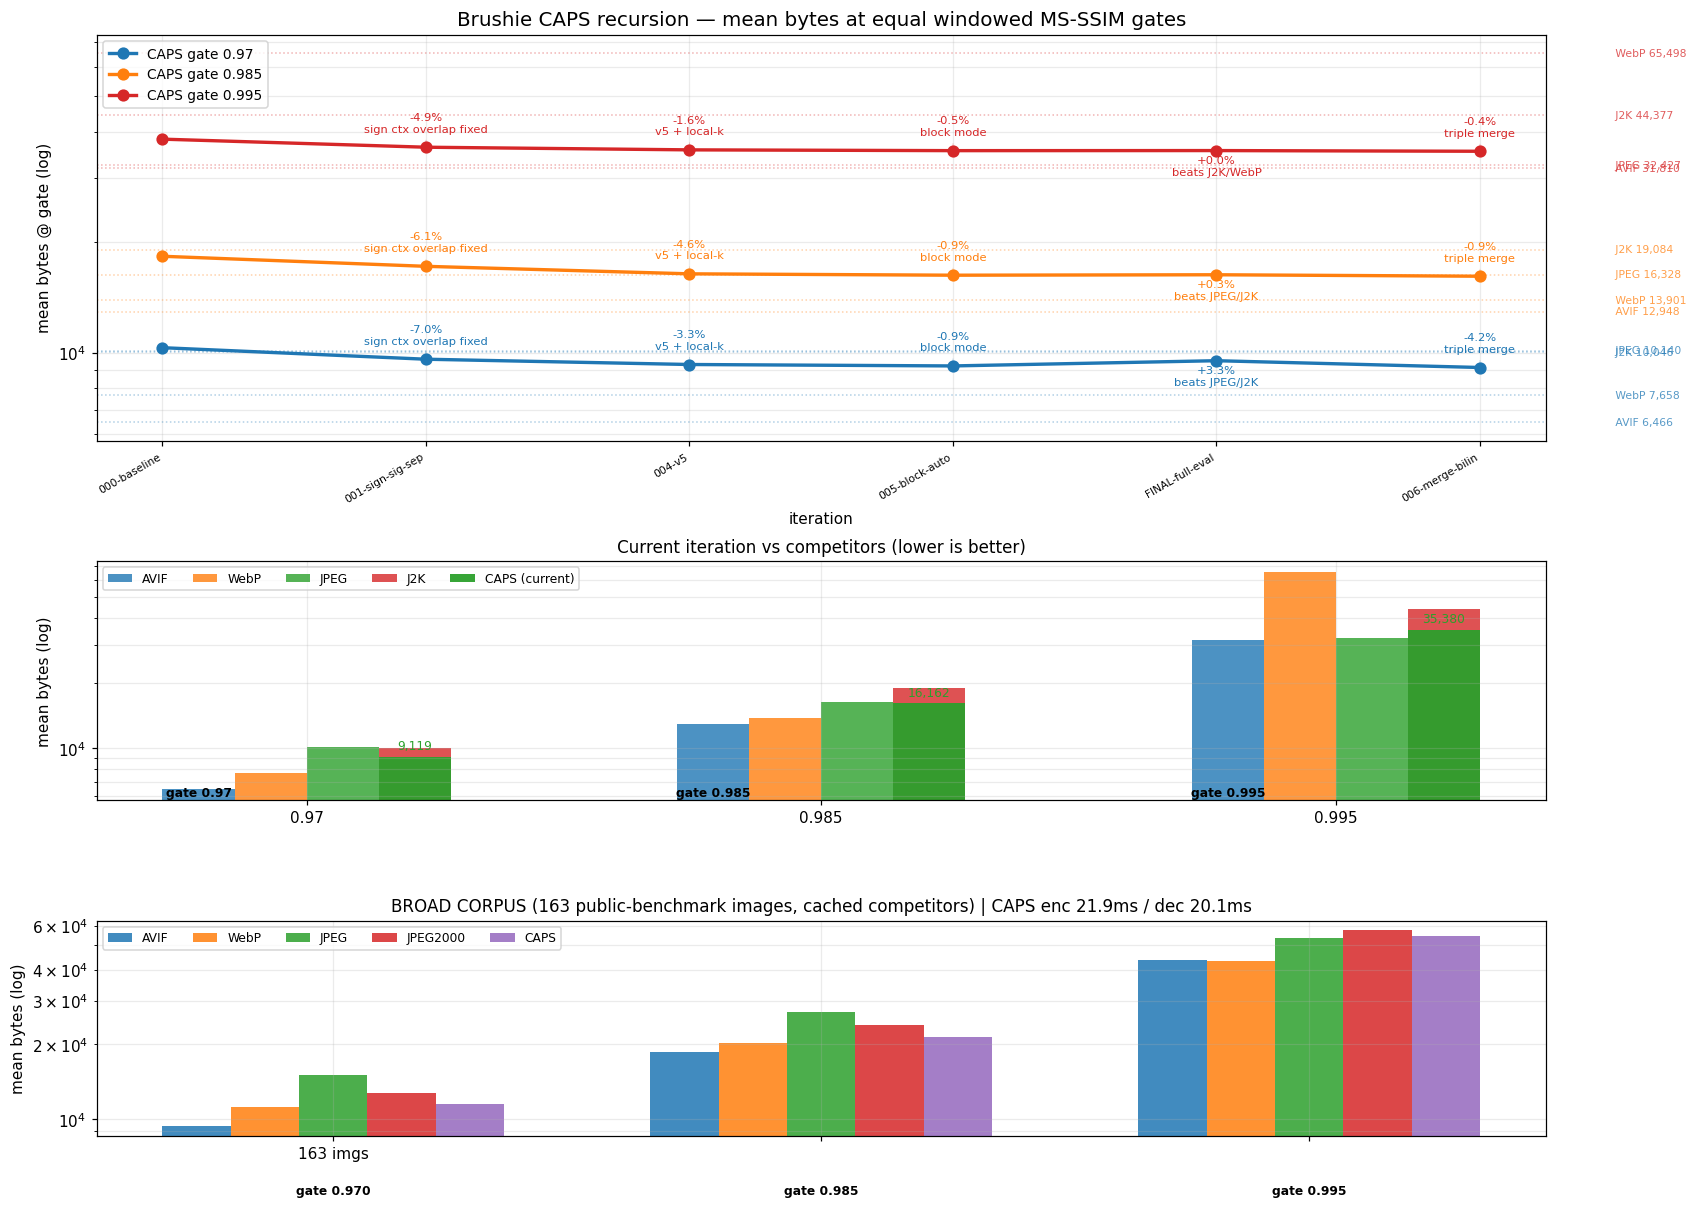
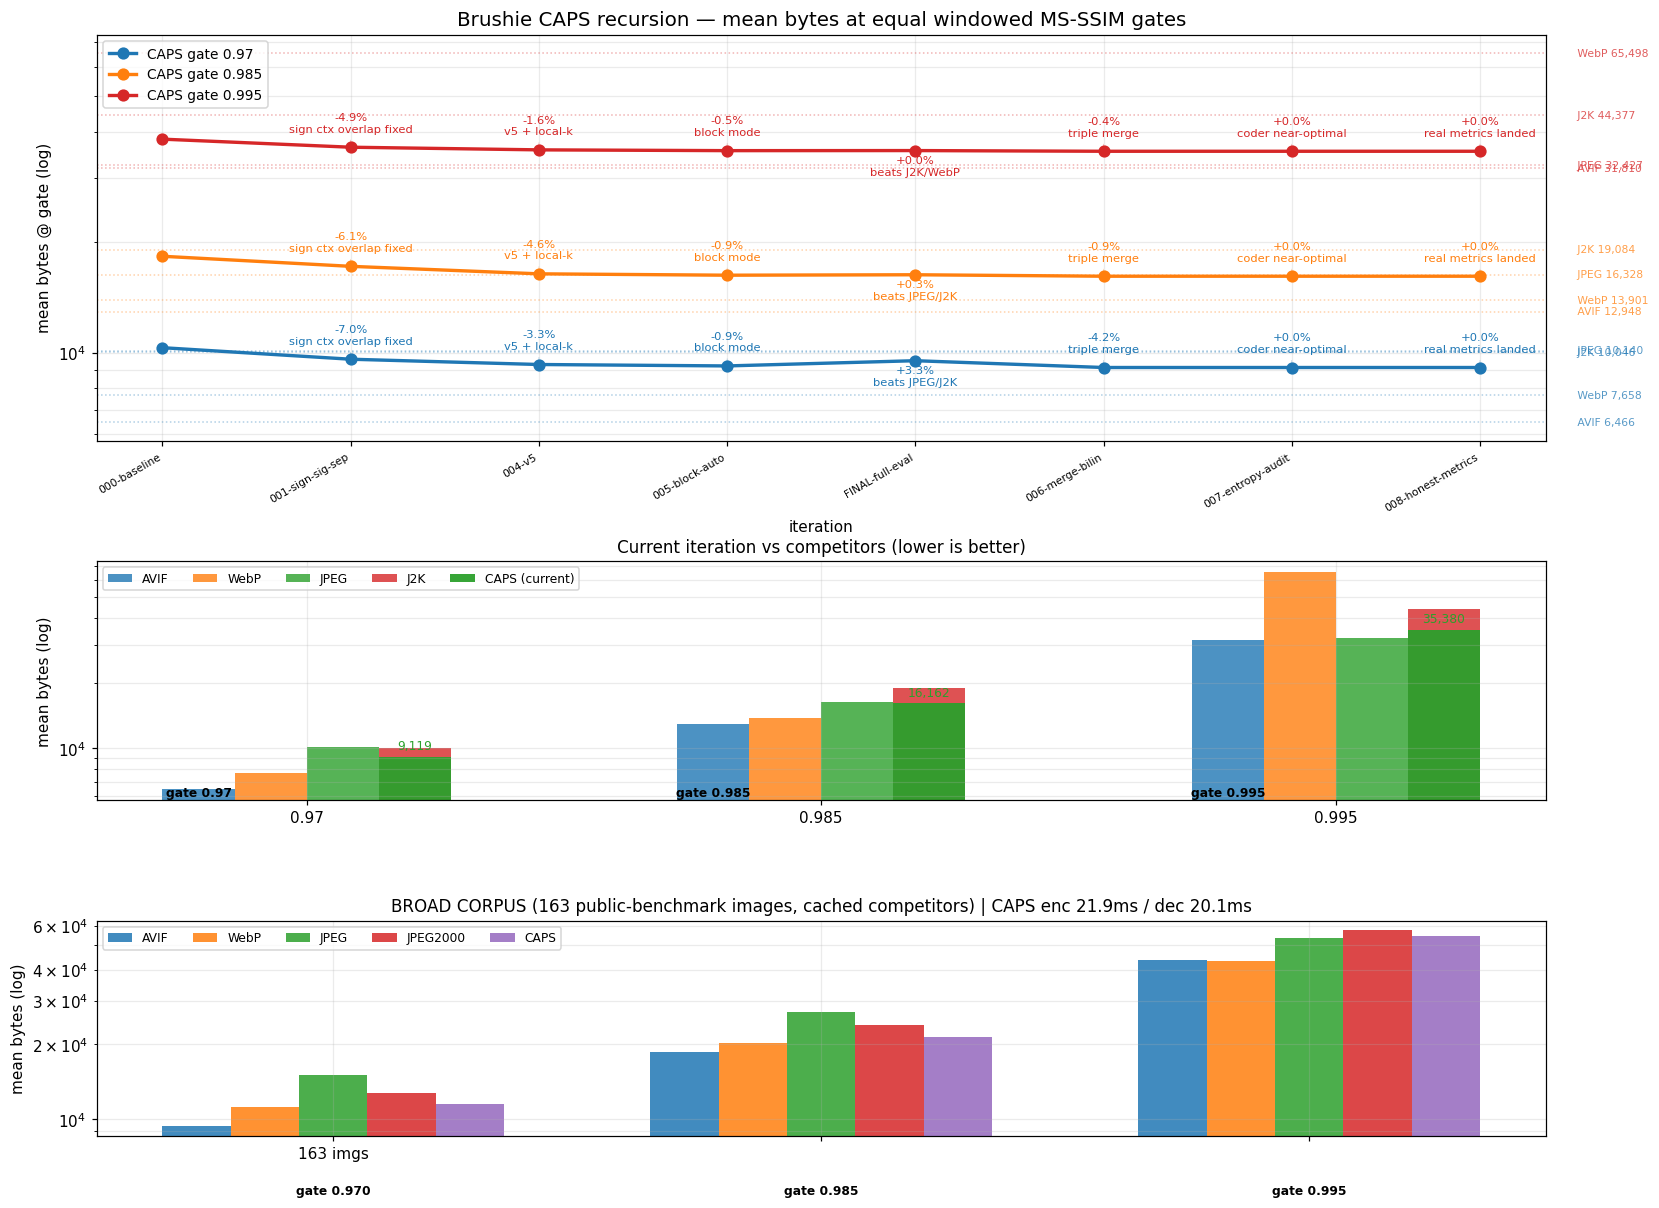
dash: honest-metric panel (SSIMULACRA2+Butteraugli landscape), campaign milestone entries, MPLBACKEND fix, /honest.png route

diff --git a/scripts/dashboard.py b/scripts/dashboard.py
@@ -10,6 +10,7 @@ import json, os
 from http.server import BaseHTTPRequestHandler, ThreadingHTTPServer
 from pathlib import Path
 
+os.environ.pop("MPLBACKEND", None)  # kernel leaks module://matplotlib_inline; Agg required
 import matplotlib
 matplotlib.use("Agg")
 import matplotlib.pyplot as plt
@@ -134,6 +135,48 @@ def render():
             title += f" | CAPS enc {sp.get('encode_ms', '?')}ms / dec {sp.get('decode_ms', '?')}ms"
         ax3.set_title(title, fontsize=11)
 
+    # Honest-metric panel: CAPS vs best-per-gate on SSIMULACRA2/Butteraugli.
+    honest_path = ROOT / "dash" / "honest.json"
+    if broad is not None and honest_path.exists():
+        honest = json.loads(honest_path.read_text())
+        metrics = honest.get("metrics", {})
+        if metrics:
+            fig2 = plt.figure(figsize=(17, 6.5))
+            s2 = [k for k in metrics if k.startswith("ssimulacra2")]
+            ba = [k for k in metrics if k.startswith("butteraugli")]
+            for pi, group in enumerate([s2, ba]):
+                axh = fig2.add_subplot(1, 2, pi + 1)
+                gates = group
+                xs = np.arange(len(gates))
+                codecs = ["CAPS", "JPEG XL", "AVIF", "WebP", "JPEG"]
+                ccolors = {"CAPS": "#2ca02c", "JPEG XL": "#9467bd", "AVIF": "#1f77b4",
+                           "WebP": "#ff7f0e", "JPEG": "#7f7f7f"}
+                width = 0.15
+                for j, codec in enumerate(codecs):
+                    vals = []
+                    for g in gates:
+                        e = metrics[g].get(codec)
+                        vals.append(e["mean_bytes"] if e else 0)
+                    axh.bar(xs + (j - 2) * width, vals, width, label=codec,
+                            color=ccolors[codec], alpha=0.85)
+                axh.set_yscale("log")
+                axh.set_xticks(xs)
+                axh.set_xticklabels([g.split()[-1] for g in gates])
+                axh.set_xlabel("gate (higher = better)" if pi == 0 else "gate (lower = better)")
+                axh.set_ylabel("mean bytes (log)")
+                axh.set_title(("SSIMULACRA2 gates (163 imgs, real metric)" if pi == 0
+                               else "Butteraugli 3-norm gates (163 imgs, real metric)"), fontsize=11)
+                axh.legend(loc="upper left", fontsize=8, ncol=5)
+                axh.grid(True, which="both", alpha=0.25)
+                for j, g in enumerate(gates):
+                    caps_e = metrics[g].get("CAPS")
+                    if caps_e:
+                        axh.text(j - 2 * width, caps_e["mean_bytes"] * 1.15,
+                                 f"{caps_e['mean_bytes']:,}", ha="center",
+                                 fontsize=7.5, color="#2ca02c", fontweight="bold")
+            fig2.savefig(ROOT / "dash" / "honest.png", dpi=110, bbox_inches="tight")
+            plt.close(fig2)
+
     out = ROOT / "dash" / "progress.png"
     fig.savefig(out, dpi=110, bbox_inches="tight")
     plt.close(fig)
@@ -153,6 +196,8 @@ class Handler(BaseHTTPRequestHandler):
 <body style="font-family:system-ui;background:#111;color:#eee;margin:24px">
 <h2>Brushie CAPS recursion — <a href="/progress.png">graph</a></h2>
 <img src="/progress.png" style="max-width:100%;border:1px solid #333;border-radius:8px">
+<h2>Real perceptual metrics (SSIMULACRA2 + Butteraugli, 163 images)</h2>
+<img src="/honest.png" style="max-width:100%;border:1px solid #333;border-radius:8px">
 <table border="1" cellspacing="0" cellpadding="5" style="margin-top:18px;border-collapse:collapse">
 <tr><th>tag</th><th>time</th><th>.970</th><th>.985</th><th>.995</th><th>note</th></tr>{rows}</table>
 </body></html>"""
@@ -166,6 +211,17 @@ class Handler(BaseHTTPRequestHandler):
             if out is None:
                 self.send_response(404); self.end_headers(); return
             data = out.read_bytes()
+            self.send_response(200)
+            self.send_header("Content-Type", "image/png")
+            self.send_header("Content-Length", str(len(data)))
+            self.send_header("Cache-Control", "no-store")
+            self.end_headers()
+            self.wfile.write(data)
+        elif self.path == "/honest.png":
+            p = ROOT / "dash" / "honest.png"
+            if not p.exists():
+                self.send_response(404); self.end_headers(); return
+            data = p.read_bytes()
             self.send_response(200)
             self.send_header("Content-Type", "image/png")
             self.send_header("Content-Length", str(len(data)))
